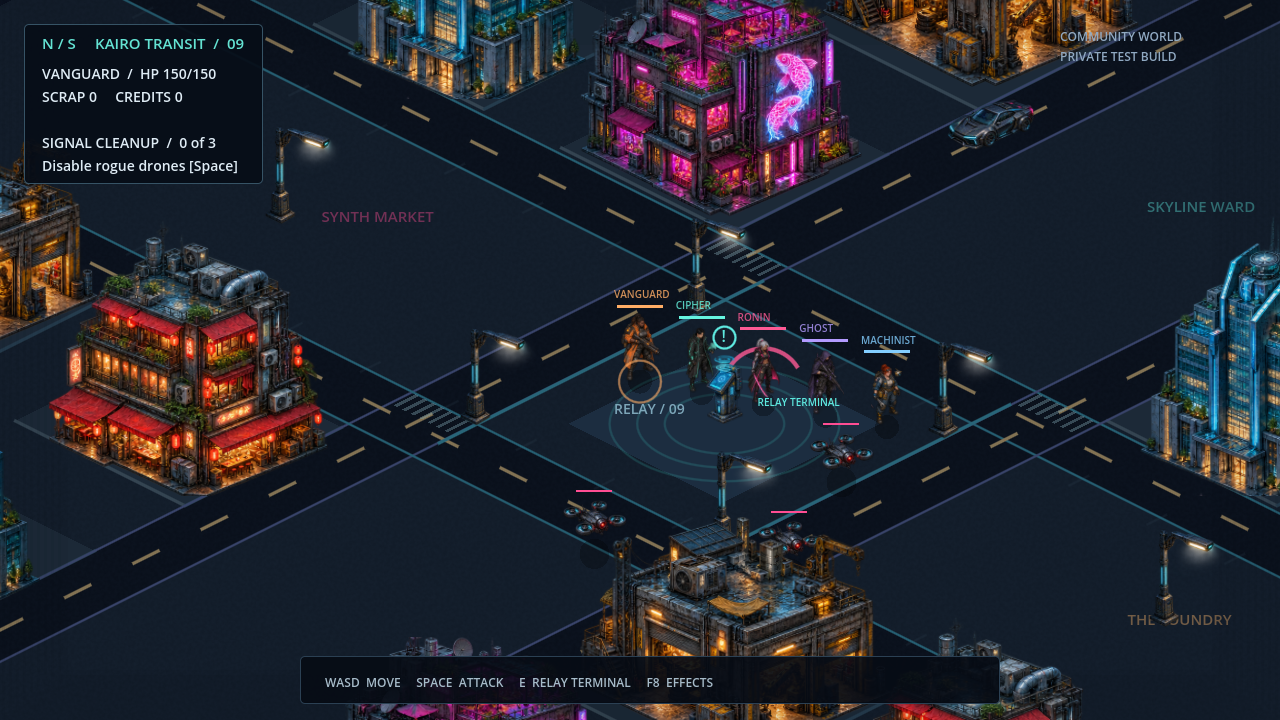
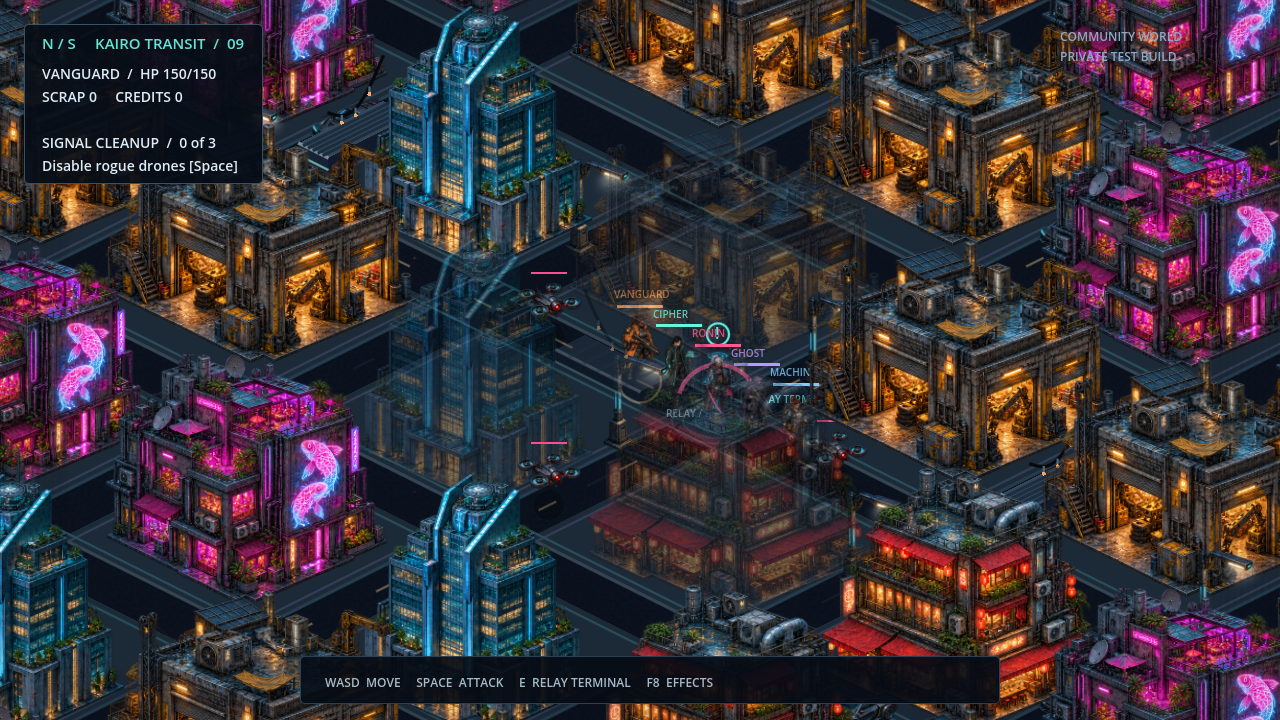
Show enclosed city blocks, alleys and boundary scenery

diff --git a/docs/screenshots/README.md b/docs/screenshots/README.md
@@ -1,31 +1,37 @@
-# Neon Shard · art pass 2
+# Neon Shard · enclosed city
 
-The playable Godot client now uses detailed painterly architecture, cinematic character portraits, and matching isometric character/prop sprites. These screenshots are **actual Godot renders** of a staged visual test scene, not standalone concept images or a live multiplayer session.
+The city now fills the view with dense buildings and narrow streets. The broad open plaza has become a compact relay intersection, with skybridges and hanging service cables above the routes. Buildings continue beyond the playable boundary rather than exposing an empty edge.
 
-## Updated character selection
+These are **actual Godot renders** of a staged scene, not standalone concept images or a live multiplayer session.
 
-Five original classes: Vanguard, Cipher, Ronin, Ghost, and Machinist. Each server supports five character slots per player identity.
+## Enclosed relay district
 
-![Updated character selection](character-selection.png)
+![Enclosed city](city.png)
 
-[Full size](character-selection.png)
+[Open full-size city image](city.png) · [Effects reduced](city-low.png)
 
-## Updated city district
+## Street and boundary views
 
-Lantern-lit shops, glass towers, industrial workshops, neon nightlife, textured streets, rain, streetlights, and detailed drones and vehicles.
+![Alley view](city-alley.png)
 
-![Updated city](city.png)
+[Open full-size alley image](city-alley.png)
 
-[Full size](city.png) · [Effects reduced](city-low.png)
+![City at the playable boundary](city-edge.png)
 
-## All five classes
+[Open full-size boundary image](city-edge.png)
+
+## Character selection
+
+![Character selection](character-selection.png)
 
 [Vanguard](class-vanguard.png) · [Cipher](class-cipher.png) · [Ronin](class-ronin.png) · [Ghost](class-ghost.png) · [Machinist](class-machinist.png)
 
-## Compare the previous art pass
+## Compare earlier layouts
 
-[Previous character selection](character-selection-before.png) · [Previous city](city-before.png)
+[Previous open layout with the same art](city-open-layout.png) · [Original city](city-before.png) · [Original character selection](character-selection-before.png)
 
-This remains an early 2D game district. The artwork is generated and integrated as texture atlases; directional character animation, interiors, crowds, and a larger world remain future work. Networking, combat, character slots and restart persistence were separately verified by the integration test. These images are not a hardware performance benchmark.
+Movement collision, street navigation, enemy pursuit, blocked attack sightlines, and saved-position migration were checked. Multiplayer combat, character slots and restart persistence passed the integration test in this enclosed layout.
 
-This preview branch publishes the gallery for review. The development project remains in the working environment.
+The art is generated and integrated as 2D texture atlases. Overhead bridges are visual structures, not playable upper floors. Interiors, directional animation and crowds remain future work. These screenshots are not a hardware performance benchmark.
+
+This branch publishes the gallery for review; the development project remains in the working environment.
